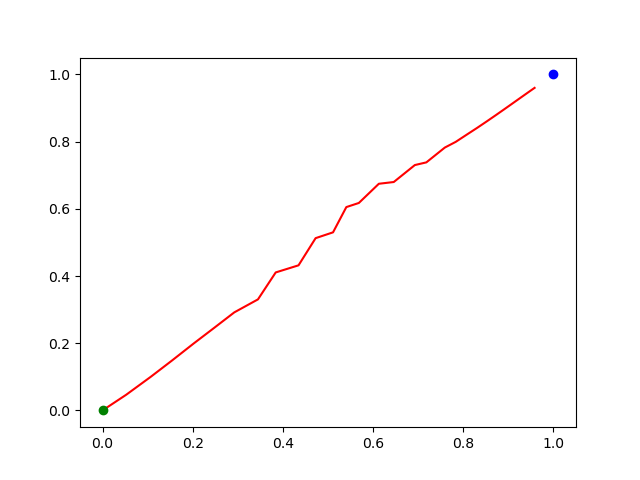
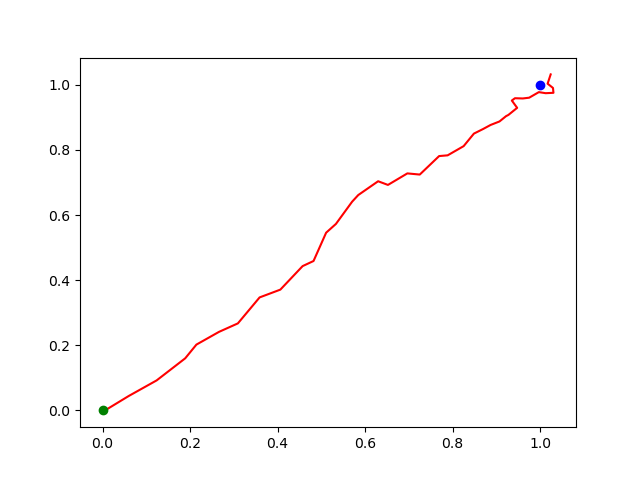
added feedback linearization for real bluerov model

diff --git a/Planning/main.py b/Planning/main.py
@@ -1,11 +1,16 @@
 import numpy as np
-from Utilities.Robots import FreeFlyer, BlueROV
 import matplotlib.pyplot as plt
 import copy
 
 # reach-avoid gurobi optimization problem
 # might want to add integer variables later so we can use gurobi to solve the problem
 import gurobipy as gp
+
+import os
+import sys
+parent_dir = os.path.abspath(os.path.join(os.path.dirname(__file__), '..'))
+sys.path.insert(0, parent_dir)
+from Utilities.Robots import FreeFlyer, BlueROV, BlueROV2
 from Utilities.helpers import HyperRectangle
 
 # hyperparameters
@@ -93,18 +98,34 @@ axs[1].set_ylabel('Control input')
 plt.savefig("figures/sp_trajectory.png")
 
 # feedback linearization controller for the underwater robot to behave like a free flyer
-uw_robot = BlueROV()
+uw_robot = BlueROV2()
 
-u_fbl = lambda x, v: np.linalg.pinv(uw_robot.gx(x))@(robot.fx(x) + robot.gx(x)@v - uw_robot.fx(x))
+# u_fbl = lambda x, v: np.linalg.pinv(uw_robot.gx(x))@(robot.fx(x) + robot.gx(x)@v - uw_robot.fx(x))
+#! bluerov2
+def u_fbl(x, v):
+    # add 4 zeros behind x[0:2] and 4 zeros behind x[2:4]
+    x_uw = np.zeros((uw_robot.n_x,))
+    x_uw[0:2] = x[0:2]
+    x_uw[6:8] = x[2:4]
+    # add 4 zeros behind v[0:2]
+    v_uw = np.zeros((uw_robot.n_u,))
+    v_uw[0:2] = v[0:2]
+    # compute the control input
+    u_fbl = np.linalg.pinv(uw_robot.gx(x_uw)[[0,1,6,7],0:2])@(robot.fx(x) + robot.gx(x)@v - uw_robot.fx(x_uw)[[0,1,6,7]])
+    u_fbl = np.concatenate((u_fbl, np.zeros((4,1))))
+    return u_fbl
 
 x = copy.deepcopy(x_ff[0, :])
-x_hist = np.zeros((N, 4))
-u_hist = np.zeros((N, 2))
+x_hist = np.zeros((N, uw_robot.n_x))
+u_hist = np.zeros((N, uw_robot.n_u))
 for i in range(N):
     u = u_fbl(x, u_ff[i, :])
-    x = uw_robot.step(x, u, dt)
+    x = uw_robot.step(np.concatenate((x[0:2],np.zeros((4,)),x[2:4],np.zeros((4,)))), u, dt)
+    x = np.array(x).squeeze()
+    u = np.array(u).squeeze()
     x_hist[i, :] = x
     u_hist[i, :] = u
+    x = np.concatenate((x[0:2],x[6:8]))
 
 fig, axs = plt.subplots(1,2, figsize=(10, 5))
 axs[0].plot(x_hist[:, 0], x_hist[:, 1], 'g-')

diff --git a/Control/waypoint_mpc.py b/Control/waypoint_mpc.py
@@ -99,22 +99,23 @@ class WaypointMPC:
 
 if __name__ == "__main__":
     robot = BlueROV2()
-    mpc = WaypointMPC(robot, N=10, dt=0.1)
+    dt = 0.1
+    mpc = WaypointMPC(robot, N=10, dt=dt)
 
     x0 = np.array([0, 0, 1, 0, 0, 0, 
                    0, 0, 0, 0, 0, 0])
     xdes = np.array([1, 1, 0, 0, 0, np.pi/2,
                      0, 0, 0, 0, 0, 0])
 
-    Nsim = 30
+    Nsim = 40
     x = x0
     x_hist = np.zeros((robot.n_x, Nsim))
     for i in range(Nsim):
         X_pred, U_pred = mpc.solve(x, xdes)
         # print(f"X_pred: {X_pred}")
-        x = X_pred[:,1]
-        x_hist[:,i] = x
-        
+        x = robot.step(x,U_pred[:,0],dt) + np.random.normal(0, 0.01, robot.n_x)
+        x_hist[:,i] = np.array(x).squeeze()
+
 
     # 2D top down plot of the trajectory
     fig, ax = plt.subplots()
